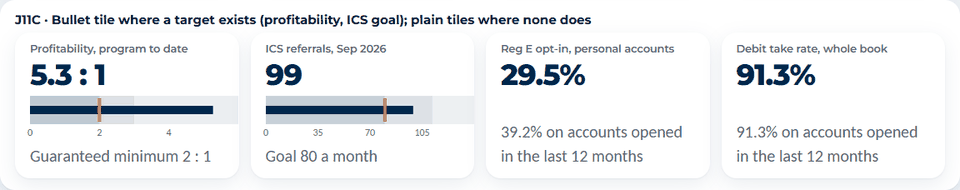
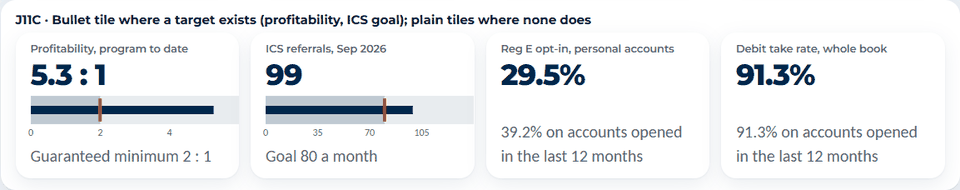
Fix the chart-styles note: facts, counts, bullet bands, style-guide relationship
Corrects docs/LIVE-REVIEW-CHART-STYLES.md after review: 41 alternative styles (not
42), the ICS goal is 85 through Dec 25 and 80 from Jan 26, the before/after
screen is pooled across mailings and its headline already states the change (so
no chart change is recommended), the revenue tile and the rev12 chart differ by
$148, profitability bullet bands sit only on real thresholds (the 3 : 1 edge is
gone), and a section says how the recommendations relate to templates/STYLE.md and
build/brand.py. Re-renders J11C and J11D.

diff --git a/docs/LIVE-REVIEW-CHART-STYLES.md b/docs/LIVE-REVIEW-CHART-STYLES.md
@@ -2,7 +2,7 @@
 
 Aaron, 2026-11-03: *"try multiple chart styles and analyze them for effectiveness. research online for presentation hints and tips."*
 
-This note does three things. It records the published guidance on choosing and styling charts for executive presentations, with the source and the claim each recommendation rests on. It draws the same real Marine FCU (1539, October 2026) figures in 42 alternative styles beside the 10 shipped charts, across 11 jobs, at the size Live Review really gives a chart, and scores each style against a fixed rubric. And it ends with a short list of changes to Live Review, each with an effort estimate.
+This note does three things. It records the published guidance on choosing and styling charts for executive presentations, with the source and the claim each recommendation rests on. It draws the same real Marine FCU (1539, October 2026) figures in 41 alternative styles, each set against the style Live Review ships today (nine are crops of the live page, two are the shipped logic redrawn), across 11 jobs, at the size Live Review really gives a chart, and scores each style against a fixed rubric. And it ends with a short list of changes to Live Review, each with an effort estimate.
 
 Nothing in the product was changed. The gallery is a scratch prototype (it lives outside the repo; how it was made is at the end). The 61 screenshots in [`docs/chart-styles/`](chart-styles/) are the evidence; none carries a figure that is not already on Marine FCU's Live Review pages, and the peer charts carry anonymous values only (no client numbers, names or ids).
 
@@ -183,7 +183,7 @@ Other images: [J4C](chart-styles/J4C.png), [J4D](chart-styles/J4D.png).
 
 ### Job 5. A monthly trend against a goal
 
-*Question: is referral volume at or over the goal, and since when?* Data: ICS referrals by month against the goal, Aug 25 to Sep 26 (`ics-trend`); the goal is 85 until Jan 26, then 80.
+*Question: is referral volume at or over the goal, and since when?* Data: ICS referrals by month against the goal, Aug 25 to Sep 26 (`ics-trend`); the goal is 85 through Dec 25 and 80 from Jan 26.
 
 ![J5A](chart-styles/J5A.png)
 **J5A, as shipped:** referrals and goal as paired columns, no value labels.
@@ -209,7 +209,7 @@ Other images: [J5C](chart-styles/J5C.png), [J5D](chart-styles/J5D.png), [J5F](ch
 
 ### Job 6. Before and after a mailing, two groups
 
-*Question: did responders change their debit spend more than members who did not respond?* Data: monthly debit spend per account before and after the Jul 2026 mailing; responders $558 to $1,013, mailed with no response $293 to $299 (`resp-chart`).
+*Question: did responders change their debit spend more than members who did not respond?* Data: monthly debit spend per account before and after a mailing, pooled across mailings (measured 3 months before and 6 months after each; the control is accounts mailed the same offer that did not respond); responders $558 to $1,013, mailed with no response $293 to $299 (`resp-chart`). The screen's headline already reads "rose 81.5% ... while the control stayed almost flat ... a net $449 a month per account", and its note says the difference is an association, not proof of cause.
 
 ![J6A](chart-styles/J6A.png)
 **J6A, as shipped:** paired columns.
@@ -226,7 +226,7 @@ Other images: [J5C](chart-styles/J5C.png), [J5D](chart-styles/J5D.png), [J5F](ch
 
 Other images: [J6C](chart-styles/J6C.png), [J6D](chart-styles/J6D.png).
 
-**Finding.** With two groups and four numbers the shipped chart is fine and the scores sit within six points of each other, which is inside my margin of error. The styles differ in what they ask the presenter to say. Paired columns make the viewer subtract; the slope (steep against flat) and the change bars (+$455 against +$6) show the answer. The change bars need two derived figures (the dollars and per cent added) through `Tracer.derive`, and the movement words must follow the +/-2% band (the control moved +2.0%, which is on the band's edge). **Keep the shipped chart; add a single annotation of the change on the responder bars.** The slope chart is worth building only if before/after charts with more groups arrive.
+**Finding.** With two groups and four numbers the shipped chart is fine and the scores sit within six points of each other, which is inside my margin of error. The styles differ in what they ask the presenter to say. Paired columns make the viewer subtract; the slope (steep against flat) and the change bars (+$455 against +$6) show the answer. The change bars need two derived figures (the dollars and per cent added) through `Tracer.derive`, and any movement words must follow the +/-2% band. Here the headline already states the change and the control, so the chart does not have to. **Keep the shipped chart and make no change.** The slope chart is worth building only if before/after charts with more groups arrive.
 
 ### Job 7. Where the client stands among 52 peers
 
@@ -343,7 +343,7 @@ Other images: [J10B](chart-styles/J10B.png), [J10E](chart-styles/J10E.png), [J10
 
 Other images: [J11D](chart-styles/J11D.png).
 
-**Finding.** The shipped tile scores high because an exact number in 54 px type is hard to misread; its weakness is that "5.3 : 1" sits there with no scale (the "good" is in the sub-line). A bullet, as Few specifies, adds the target and the range in one strip and keeps the number. It applies to two tiles, so the cost is small. Sparklines scored lower on honesty because each one is scaled to its own minimum and maximum, which makes a 12% revenue change look like a collapse; they need a zero or a stated range before they go on a tile. **Default: keep the number tile; add the bullet where a target exists (profitability, ICS goal).**
+**Finding.** The shipped tile scores high because an exact number in 54 px type is hard to misread; its weakness is that "5.3 : 1" sits there with no scale (the "good" is in the sub-line). A bullet, as Few specifies, adds the target and the range in one strip and keeps the number. It applies to two tiles, so the cost is small. Sparklines scored lower on honesty because each one is scaled to its own minimum and maximum, which makes a 12% revenue change look like a collapse; they need a zero or a stated range before they go on a tile. A sparkline must also come from the same series as the figure above it: the September revenue tile reads $139,162.09 while the last column of the "Incremental revenue by month" chart (`rev12`) is $139,014.20, a $148 difference I did not trace. Bullet bands must sit on real, client-facing thresholds only: J11C draws two bands for profitability (below and above the 2 : 1 guaranteed minimum) and for ICS (below and above the goal of 80). An earlier draft carried a 3 : 1 edge, which is the internal trigger for the Revenue Guarantee slide and not a client expectation; anything beyond the 2 : 1 minimum is Aaron's call. **Default: keep the number tile; add the bullet where a target exists (profitability, ICS goal).**
 
 ## 5. Colour and legibility, measured
 
@@ -395,7 +395,7 @@ The image scales the 1280 x 720 captures to 854 px wide and compresses them as J
 | 3. Parts of a whole, up to eight parts | **J3C** ranked bars with share labels | Donut for four parts or fewer with one dominant part; J3B single bar for "how concentrated" | Shares compared on one scale; already a shipped block |
 | 4. Parts of a whole, many parts | **J4B** top seven and "other" | J4D single 100% bar | A donut past about five parts fails |
 | 5. Trend against a goal | **J5B** columns with a goal step line | J5E when "met or missed" is the message; J5D variance bars as a drill | One mark per month and one standard |
-| 6. Before and after, two groups | **Shipped paired columns** plus a change annotation | J6B slope for more groups | Scores are close; the annotation adds the answer |
+| 6. Before and after, two groups | **Shipped paired columns** (no change) | J6B slope for more than two groups | Scores are within noise; the headline already states the change |
 | 7. Peer position, 20 or more peers | **Sentence over J7E bullet** | J7B ranked dots on a keypress | Few marks, uses figures already in the model |
 | 8. Peer position, five to seven peers | **J8C** ranked dots, anonymous labels | J8B bars | No band from five values |
 | 9. Two measures per branch | **J9C** quadrant with only the low-on-both set named | J9B paired dots for "how far apart" | The decision is who is low on both |
@@ -406,21 +406,23 @@ Conditions for keeping the donut (it was added at Aaron's request on 2026-11-03,
 
 ## 7. Changes to Live Review, in priority order
 
+**Relationship to the deck style guide.** `templates/STYLE.md` and `build/brand.py` govern the client decks, and nothing here changes them. Live Review is a separate surface (a browser window shared live), and its charts already differ from the deck's by design: the decks draw donuts for Reg E and product mix, show branch charts as volume bars with a rate line, and mark the last complete month orange on navy time-series bars, while Live Review draws a branch rate as bars, one metric at a time. Where a recommendation below differs from the deck style (ranked dots on a non-zero axis, a goal step line, bullet strips), it applies to Live Review only. The points where the two agree are zero-baseline bars, one reference line, direct value labels, flat pies and donuts, `TEAL` over navy for a second series and the 3:1 contrast test. If Aaron wants a recommendation carried into the decks it goes through `brand.py` and `STYLE.md` first, with the layout-baseline snapshot.
+
 Effort: **S** is up to half a day, **M** one to two days, **L** three or more. Every change that shows a figure the pack does not already hold needs the figure computed in Python with `Tracer.derive` (so `audit` can trace it), a test, and a CHANGELOG entry; those are counted in the estimate. Browser-computed values (a share in a tooltip, as the donut does today) are not traced and I would not add more.
 
 | # | Change | Evidence | Where | Effort |
 |---|---|---|---|---|
 | 1 | **Open decision charts on the end the decision is about**, say so ("Lowest 6 of 16"), and add the book or median as a reference line on branch bar charts (take, Reg E, attrition, value per account). Today present mode opens on the largest. | J1A, J2A, J2D | `sortOf`, `barsSVG` in `live.js`; a `sort` and `ref` option on `blocks.bars`; the program modules that build those charts | M (1 day) |
 | 2 | **Donut guard:** more than five parts falls back to ranked bars with an "Other" row; a palette with no repeats; keep the donut for four parts or fewer. | J4A, J3A | `donutSVG`, `PAL`; `blocks.donut` | S (0.5 day) |
-| 3 | **Fix the chart tokens:** steel to at least 3:1 (`#7595B3` clears it), drop gold from the categorical palette, add a 1.5 px surface-coloured border on slices and dots, keep orange and gold out of the same legend. | Section 5 | `live.css` tokens, `PAL`; the dark theme needs no change | S (0.5 day) |
+| 3 | **Fix the chart tokens for the screen:** steel to at least 3:1 (`#7595B3` clears it), drop gold from the categorical palette, add a 1.5 px surface-coloured border on slices and dots, keep orange and gold out of the same legend. `build/brand.py` is the one palette and `STEEL` there (`#7B9BB8`) is the ARS secondary series in the decks, so this is a Live-Review-only token (`--c-steel` in `live.css`) unless Aaron wants the decks to follow; changing `brand.STEEL` restyles the ticket chart and the layout baseline. The style guide already uses the same 3:1 test for `TEAL` (3.74:1 on white), and steel is the token that fails it. | Section 5; `templates/STYLE.md` section on time-series charts | `live.css` tokens, `PAL`; the dark theme needs no change | S (0.5 day) |
 | 4 | **Present-mode type floor:** axis ticks, median and book labels and legend text from 12 or 13 px to 15 px. | Section 5 | `html.present .chart text` in `live.css`; check chart widths with the longer labels | S (0.5 day) |
 | 5 | **Goal as a line, not a bar:** a `goal` series type drawn as a step line, with an option to colour columns met or missed; use it for ICS referrals and any other monthly measure with a goal. Value labels on every column. | J5A, J5B, J5E | `barsSVG`, `blocks.bars`, `programs/ics.py`; goal values are already in the pack (no new figure) | M (1.5 days) |
 | 6 | **Peer strip:** replace the jittered strip with the bullet (client bar over the existing quartiles, median marker) and the ranked-dot view on a keypress; draw no band below about eight peers (ranked dots with "Client A" labels instead); fix the axis so a non-negative measure never starts below zero and ticks are round. | J7A, J7B, J7E, J8A, J8C | `stripSVG`, `peerstrip` block; `peers.py`; uses `q1`, `q3`, `median`, `dots` already in the model | M (2 days); the axis fix alone is S |
 | 7 | **Dot style for rates on a bar block:** `style: "dot"` with a labelled non-zero axis and optional two-column layout, allowed only for dots (a test fails a bar block with a non-zero start). Use it for take rate and Reg E by branch. | J1C, J1E | `barsSVG`, `blocks.bars`, `tests` | M (2 days) |
 | 8 | **Quadrant labelling:** name and colour only the points below both medians; keep the rest grey and unlabelled; make the axis domain come from all points. | J9A, J9C | `scatterSVG` | S (0.5 day) |
 | 9 | **Share-of-total view for the swipe-tier mix:** a three-measure dot plot next to the existing toggle (spend, accounts, NSF/OD items as shares of their totals). Shares are new figures. | J10A, J10D | `programs/ars.py` computes them with `Tracer.derive`; a new `dots` block or the dot style from item 7 | M (2 days) |
-| 10 | **Bullet strip on KPI tiles that have a target** (profitability against the 2 : 1 minimum; ICS referrals against the goal): a `target` on the `kpi` block, and no bullet where none exists. Sparklines only with a zero or stated range. | J11A, J11C | `kpisHTML`, `blocks.kpi`, `programs/ars.py`, `programs/ics.py` | M (1 day) |
-| 11 | **Change annotation on before/after:** "+$455 (81.5%)" on the responder columns, worded to the +/-2% band; the change is derived in the pack. | J6A, J6D | `programs/analysis.py`; `barsSVG` annotation | S (0.5 day) |
+| 10 | **Bullet strip on KPI tiles that have a target** (profitability against the 2 : 1 minimum; ICS referrals against the goal): a `target` on the `kpi` block, bands only at real client-facing thresholds (no 3 : 1 edge; that is the internal guarantee-slide trigger), and no bullet where none exists. Sparklines only with a zero or stated range, drawn from the same series as the tile's figure (the revenue tile and `rev12` differ by $148; see Job 11). | J11A, J11C | `kpisHTML`, `blocks.kpi`, `programs/ars.py`, `programs/ics.py` | M (1 day) |
+| 11 | **Before and after: no change.** The headline already carries "+81.5%" and "almost flat" (the +/-2% rule) and the columns show the levels. Revisit with a slope chart only if a screen needs more than two groups. | J6A to J6D | none | none |
 | 12 | **Presenter highlight (a key that colours one branch, bar or segment and greys the rest).** Not tried in the gallery; supported by sources 5 and 9 (all grey, colour the point). Lowest priority. | Sources 5, 9 | `live.js` state and keys | M (2 days) |
 
 Not recommended, and why: a **treemap** (J3D, J4C; area ranks below position and length, and the smallest rectangles go unlabelled), a **waffle** (J3E; whole-percent squares, 100 marks), a **connected scatter** on bouncing monthly series (J9D), an **area chart** for any series that can have a left-out month (J5F), a **16-part donut** (J4A), and **stacked bars with more than four segments** (J10F). None of these is in Live Review today except the donut, which is covered by item 2.

diff --git a/CHANGELOG.md b/CHANGELOG.md
@@ -23,7 +23,7 @@ file travels with the code, so Sheila's change log page shows that stamp above t
 
 ### 2026-11-03 — Live Review chart styles tried on Marine FCU data and scored (documentation only)
 
-Summary: A new note, docs/LIVE-REVIEW-CHART-STYLES.md, draws Marine FCU's real figures in 42 alternative chart styles beside the 10 shipped charts, scores them against a fixed rubric, sets out the published guidance behind the scores, and lists changes to Live Review with effort estimates; no screen, figure or behavior changed.
+Summary: A new note, docs/LIVE-REVIEW-CHART-STYLES.md, draws Marine FCU's real figures in 41 alternative chart styles, each set against the shipped one, scores them against a fixed rubric, sets out the published guidance behind the scores, and lists changes to Live Review with effort estimates; no screen, figure or behavior changed.
 
 Aaron asked to try multiple chart styles, analyze them, and research presentation tips. The note records a default style per job (branch comparison, parts of a whole, trend against a goal, before and after, peer position, two measures, mix, KPI tiles), the colour contrast and colour-vision measurements behind them, and what could not be verified. The 61 screenshots are in docs/chart-styles/. Nothing was merged or released.
 
